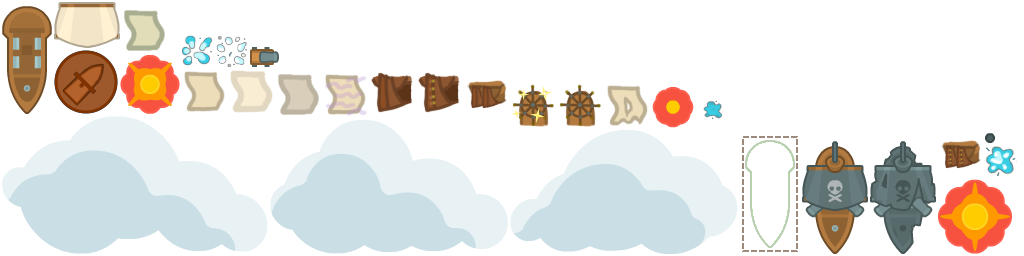
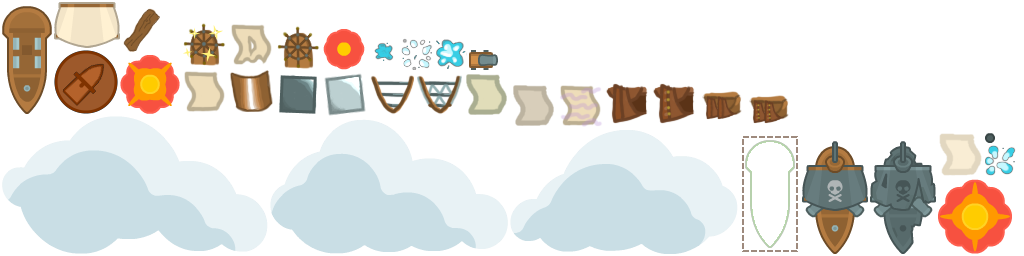
#71 Hull tab complete with graphics

Changed region(s): [[0.0938, 0.0312, 0.7812, 0.5], [0.9062, 0.5, 1.0, 0.6875]]

diff --git a/core/src/com/hfentonfearn/ui/tabs/SteeringTab.java b/core/src/com/hfentonfearn/ui/tabs/SteeringTab.java
@@ -8,11 +8,11 @@ public class SteeringTab extends DockTab {
         super("Steering", dialog);
 
         addItem(null,"Basic Rudder", "Not much more than a plank of wood sending the ship in a general direction.", 0, 0.035f);
-        addItem(items.get(0),"Reinforced Rudder", "Reinforced with iron hinges. Your vessel is starting to look sea worthy.", 1, 0.65f);
-        addItem(items.get(1),"Advanced Helm", "Your wooden wheel is in need or replacement. This iron ellipse is a perfect upgrade.", 1, 0.85f);
-        addItem(items.get(2),"Double Rudder", "Why have one, when you can have two? Twice the wood, twice the control.", 1, 0.135f);
-        addItem(items.get(3), "Double Reinforced Rudder", "These rudders are the best on the market. You can't make them better.", 1, 0.165f);
-        addItem(items.get(4), "Blessed Helm", "Voodoo blesses your helm, turning the wheel faster than any human can.", 1, 0.2f);
+        addItem(items.get(0),"Reinforced Rudder", "Reinforced with iron hinges. Your vessel is starting to look sea worthy.", 300, 0.65f);
+        addItem(items.get(1),"Advanced Helm", "Your wooden wheel is in need or replacement. This iron ellipse is a perfect upgrade.", 500, 0.85f);
+        addItem(items.get(2),"Double Rudder", "Why have one, when you can have two? Twice the wood, twice the control.", 650, 0.135f);
+        addItem(items.get(3), "Double Reinforced Rudder", "These rudders are the best on the market. You can't make them better.", 800, 0.165f);
+        addItem(items.get(4), "Blessed Helm", "Voodoo blesses your helm, turning the wheel faster than any human can.", 900, 0.2f);
 
         initialize();
     }

diff --git a/core/src/com/hfentonfearn/ui/tabs/HullTab.java b/core/src/com/hfentonfearn/ui/tabs/HullTab.java
@@ -1,28 +1,24 @@
 package com.hfentonfearn.ui.tabs;
 
-import com.badlogic.gdx.scenes.scene2d.ui.Button;
 import com.hfentonfearn.ui.DockDialog;
 import com.hfentonfearn.ui.UpgradeItem;
 
 public class HullTab extends DockTab {
-    public HullTab(DockDialog dialog) {
+    public HullTab(DockDialog dialog){
         super("Hull", dialog);
 
-        tabContent.add(new Button(skin));
-        tabContent.row();
-        tabContent.add(new Button(skin));
-        tabContent.row();
-        tabContent.add(new Button(skin));
-        tabContent.row();
+        addItem(null,"Oak Hull", "A basic hull made from old oak. Only one or two big leaks.", 0, 80f);
+        addItem(items.get(0),"Copper Armour", "Dull copper plating is strapped to the side of your ship.", 300, 100f);
+        addItem(items.get(1),"Iron Armour", "Cast iron shielding is bolted to the upper hull.", 500, 120f);
+        addItem(items.get(2),"Steel Armour", "Steel plates are welded to the hull. This should add some protection.", 700, 145f);
+        addItem(items.get(3), "Iron Reinforced Hull", "Iron beams are fitted into the hulls structure. Your ship is one sturdy vessel", 900, 170f);
+        addItem(items.get(4), "Steel Reinforced Hull", "Steel is combined with the wooden beams to provide a light weight, cannon resistant hull.", 1100, 200f);
+
+        initialize();
     }
 
     @Override
     protected void addItem(UpgradeItem parent, String name, String desc, int cost, float value) {
-
-    }
-
-    @Override
-    protected void initialize() {
-
+        items.add(new UpgradeItem(parent,name, desc, cost, value, UpgradeItem.UpgradeType.HULL));
     }
 }

diff --git a/core/src/com/hfentonfearn/ui/UpgradeDialog.java b/core/src/com/hfentonfearn/ui/UpgradeDialog.java
@@ -30,7 +30,7 @@ public class UpgradeDialog extends Dialog {
         getContentTable().row();
         getContentTable().add(new Label("Upgrade Cost: " + item.cost, skin)).left();
         getContentTable().row();
-        getContentTable().add(new Label("Speed level: " + item.value, skin)).left();
+        getContentTable().add(new Label(item.type.toString() + ": " + item.value, skin)).left();
         getContentTable().row();
 
         getButtonTable().add(getUpgradeButton(tab)).expand().fillX();
@@ -80,6 +80,8 @@ public class UpgradeDialog extends Dialog {
                         case FIRERANGE:
                             break;
                         case HULL:
+                            PlayerUpgrades.hull++;
+                            Components.STATS.get(PlayerComponent.player).setMaxHull(item.value);
                             break;
                         case CARGO:
                             break;

diff --git a/core/src/com/hfentonfearn/ui/UpgradeItem.java b/core/src/com/hfentonfearn/ui/UpgradeItem.java
@@ -16,7 +16,27 @@ public class UpgradeItem {
         HULL,
         CARGO,
         FIRERANGE,
-        FIRERATE
+        FIRERATE;
+
+        @Override
+        public String toString() {
+            switch (this) {
+                case FIRERANGE:
+                    return "Cannon range";
+                case STEERING:
+                    return "Steering strength";
+                case FIRERATE:
+                    return "Cannon fire rate";
+                case SPEED:
+                    return "Speed level";
+                case CARGO:
+                    return "Cargo capacity";
+                case HULL:
+                    return "Hull points";
+                default:
+                    return "Enum Not Found";
+            }
+        }
     }
 
     public UpgradeItem(UpgradeItem parent, String name, String description, int cost, float value, UpgradeType type) {

diff --git a/core/src/com/hfentonfearn/utils/AssetLoader.java b/core/src/com/hfentonfearn/utils/AssetLoader.java
@@ -135,12 +135,15 @@ public class AssetLoader implements Disposable {
 
             public final AtlasRegion[] upgBtnSpeed = new AtlasRegion[6];
             public final AtlasRegion[] upgBtnSteering = new AtlasRegion[6];
+            public final AtlasRegion[] upgBtnHull = new AtlasRegion[6];
 
             public DockUI(TextureAtlas atlas) {
                 for (int i = 0; i < upgBtnSpeed.length; i++)
                     upgBtnSpeed[i] = atlas.findRegion("dockSpeed" + (i+1));
                 for (int i = 0; i < upgBtnSteering.length; i++)
                     upgBtnSteering[i] = atlas.findRegion("dockSteering" + (i+1));
+                for (int i = 0; i < upgBtnHull.length; i++)
+                    upgBtnHull[i] = atlas.findRegion("dockHull" + (i+1));
             }
         }
     }

diff --git a/core/src/com/hfentonfearn/ui/tabs/DockTab.java b/core/src/com/hfentonfearn/ui/tabs/DockTab.java
@@ -59,6 +59,7 @@ public abstract class DockTab {
                 item.purchased = index <= PlayerUpgrades.cannonRange;
                 break;
             case HULL:
+                style.imageUp = new TextureRegionDrawable(AssetLoader.ui.docks.upgBtnHull[index]);
                 item.purchased = index <= PlayerUpgrades.hull;
                 break;
             case CARGO:
